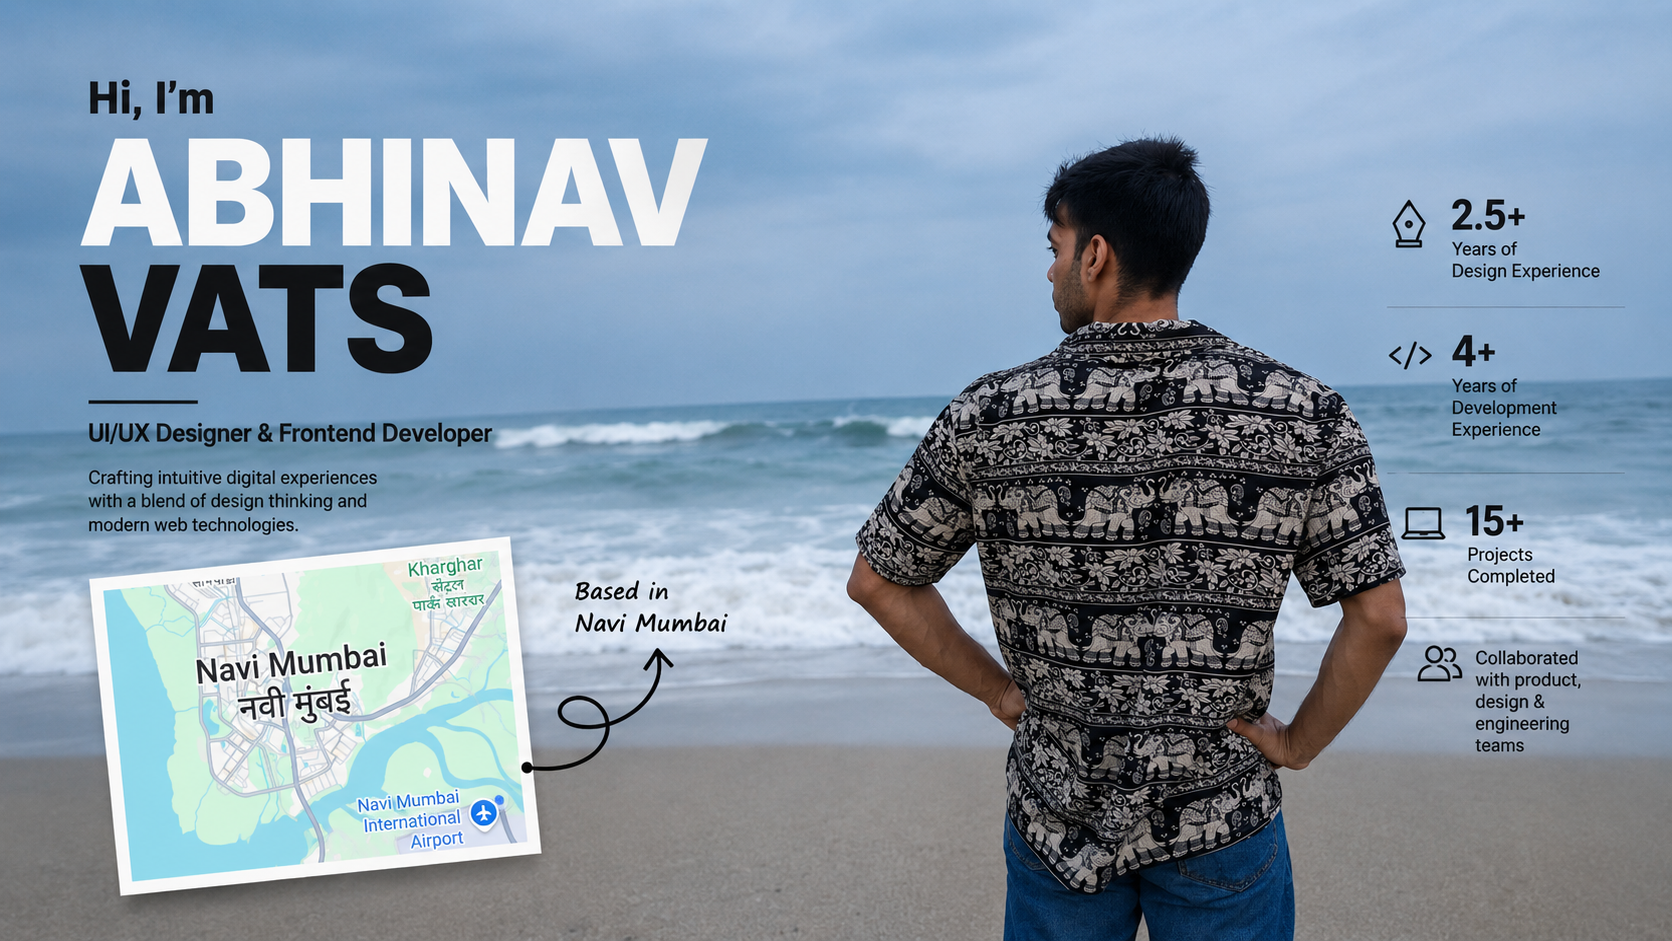
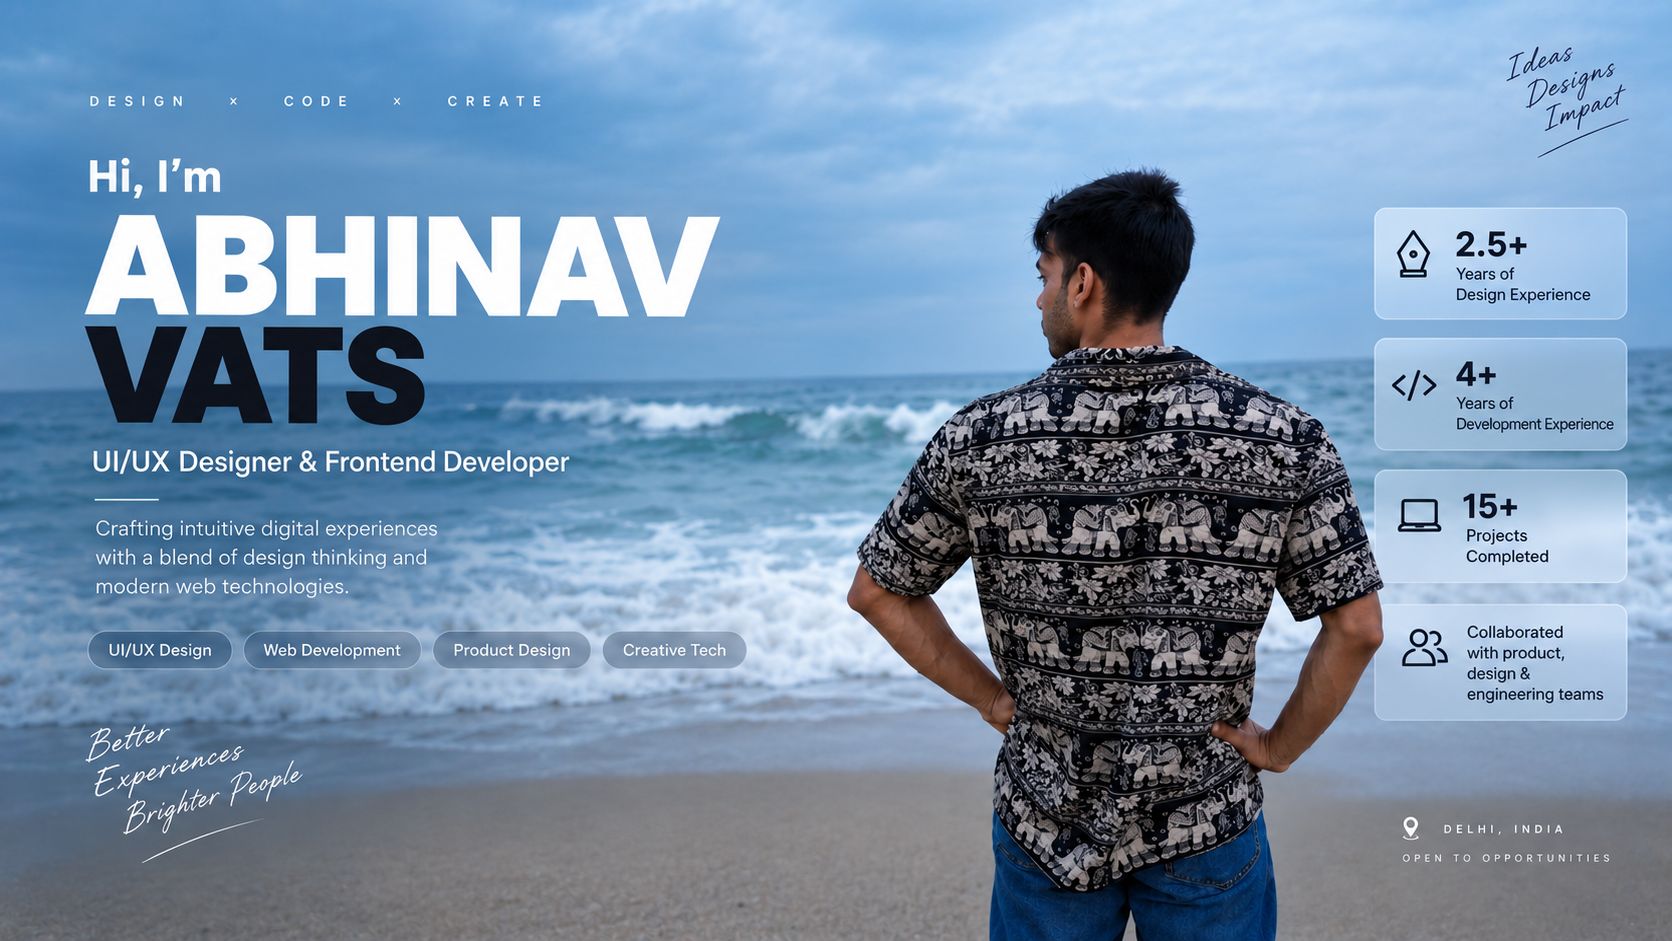
Update layout: remove main image and center title, update about me hero

diff --git a/index.html b/index.html
@@ -61,9 +61,6 @@
 
       <!-- Giant Hero Masthead -->
       <section class="hero-masthead-block">
-        <div class="hero-portrait-left">
-          <img src="assets/images/main-portrait.png" alt="Abhinav Vats" />
-        </div>
         <h1 class="hero-masthead-name">ABHINAV VATS</h1>
         
       </section>

diff --git a/css/newspaper.css b/css/newspaper.css
@@ -104,7 +104,7 @@
   letter-spacing: -0.01em;
   line-height: 0.8;
   padding-bottom: 24px;
-  margin-left: 120px; /* Shifted further right to avoid left portrait overlap */
+  margin: 0 auto;
   z-index: 2;
   white-space: nowrap;
 }
